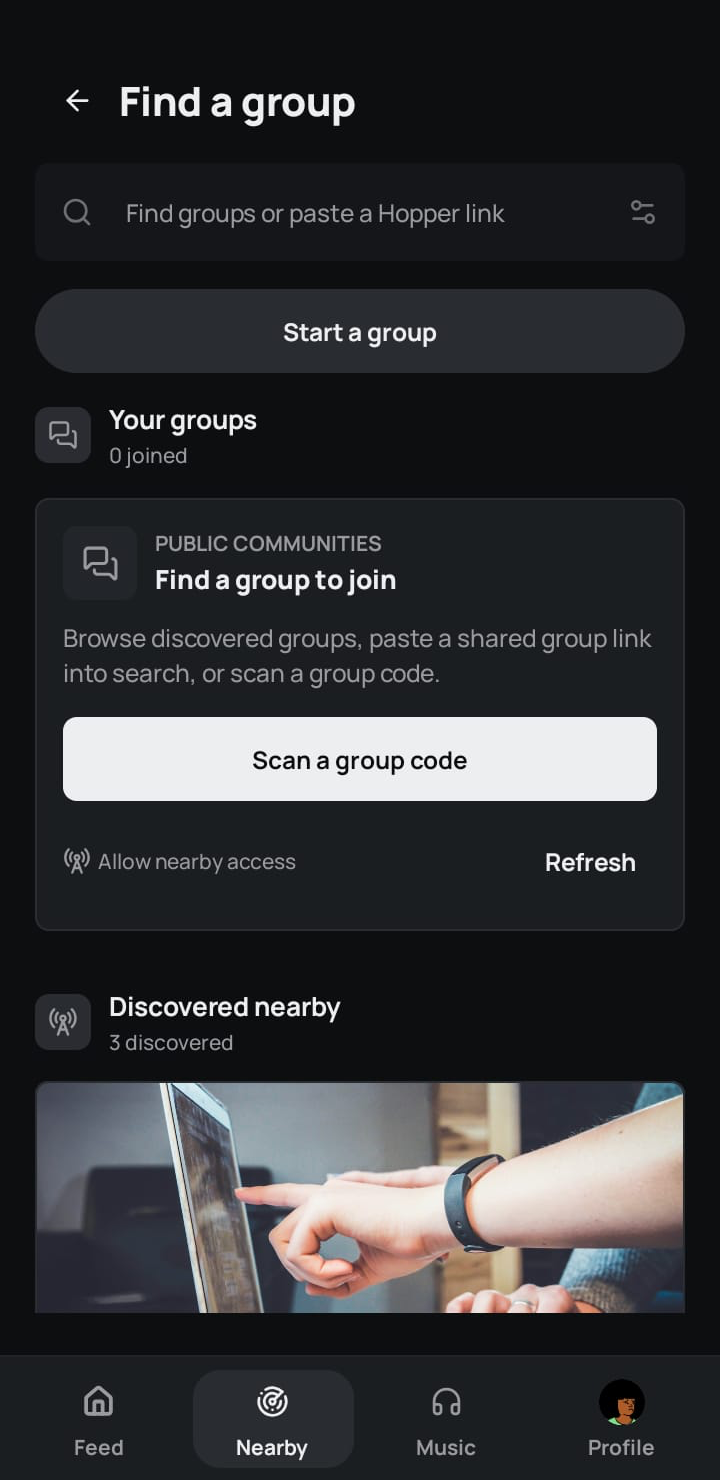
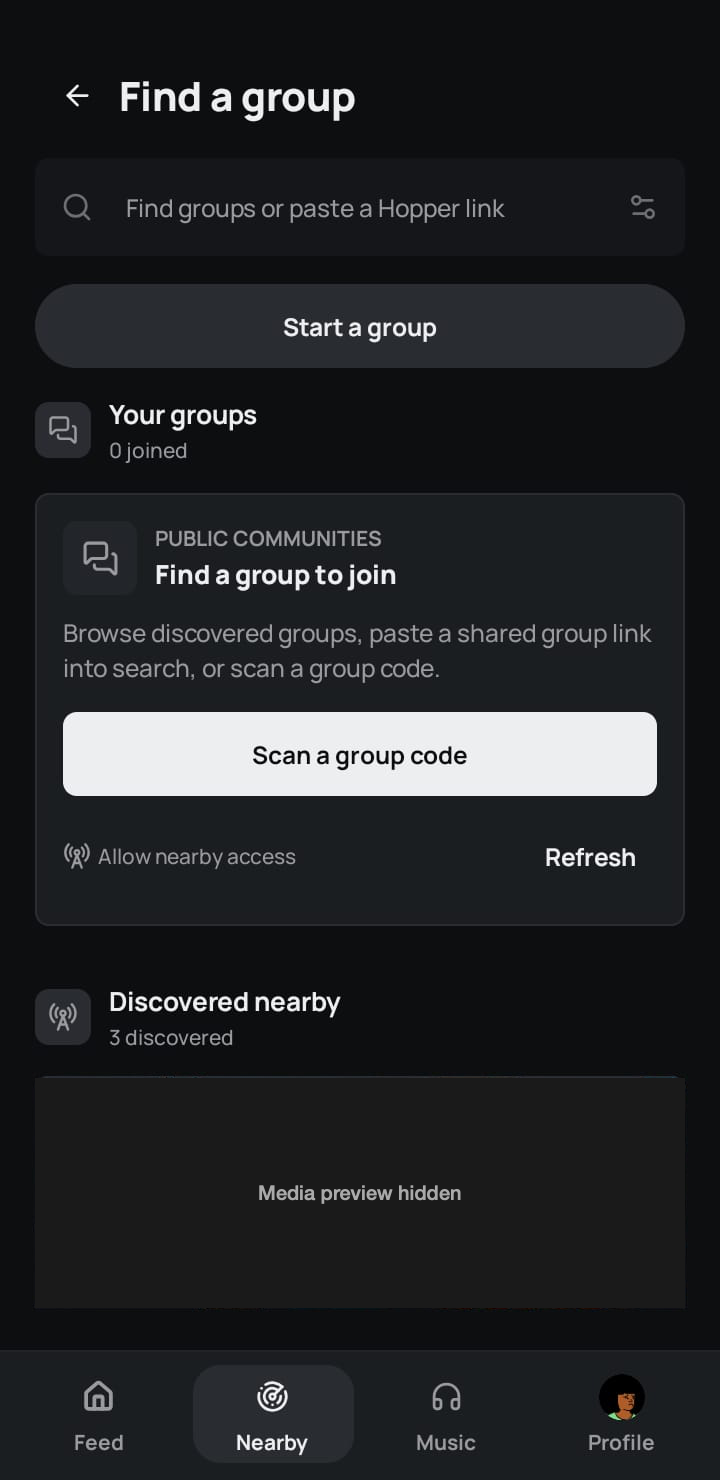
Show all 14 sanitized Hopper screenshots in download README

diff --git a/README.md b/README.md
@@ -2,48 +2,71 @@
 
 # Hopper for Android
 
-**Talk nearby. Explore further.** Hopper brings Bluetooth mesh conversations together with place-based discovery, groups, and an online social feed. Nearby messages can work without internet when another compatible Hopper phone is reachable; places and live social content need a connection.
+**Nearby conversations. Places beyond them.** Find people around you and exchange supported messages over Bluetooth when compatible phones are reachable, even without internet. Go online to explore area conversations, a social feed, profiles, and media.
 
-> **Release status: no public APK yet.** This is Hopper's official download repository, not the Android source repository. The [Releases page](https://github.com/hopper-social/hopper/releases) will list signed, approved builds when available. Until then, the screenshots below show an alpha development build, not a public release. Do not install APKs offered by other accounts or links.
+> **October 12 alpha prerelease available.** Download the signed universal APK and its checksum from the [official v0.3.5-alpha.1 release](https://github.com/hopper-social/hopper/releases/tag/v0.3.5-alpha.1-20261012). This is Hopper's download repository, not the Android source repository. The screens below are development captures and are not proof that they came from the signed public APK. Do not install APKs offered elsewhere.
 
-## How Hopper connects
+## One app, more ways to connect
 
-| Nearby, without internet | Places and social, with internet |
-| --- | --- |
-| Discover compatible Hopper phones, start or find groups, and exchange supported messages over Bluetooth mesh when peers are reachable. Range, permissions, and available relay peers affect delivery. | Explore area conversations and use the feed, profiles, and media features through internet-backed services and Nostr relays. Picking an area and sharing public content can reveal information beyond nearby peers. |
+- **Around you:** Discover compatible phones and explore available groups. Supported Bluetooth mesh conversations can work without mobile data or Wi-Fi when peers are reachable; group discovery and delivery depend on the connection.
+- **In a place:** Spin the globe to choose an area, then explore its conversations and notes through internet-backed relays. You can choose where to look without claiming to be there.
+- **Beyond chat:** Browse the online feed, profiles, photos, Reels, and music. The people and places you find nearby sit alongside a wider social experience.
 
-Wi-Fi Direct can carry nearby reel transfers on supported Android devices; it is not the Bluetooth mesh messaging transport. Hopper is an **alpha**, not an emergency communication service.
+## A look inside
 
-## See Hopper
+All 14 supplied phone captures are shown below. These are **edited v0.3.5-alpha.1 development captures**, not verified screenshots of the signed public APK or proof of message delivery. System bars were cropped; private conversations, posts, build details, and third-party media previews were covered before publication. Blank labeled regions are redactions, not empty app states. Places and discovery counts reflect one session, not current network availability.
 
-These captures show the installed **v0.3.5-alpha.1 development build**. They document visible screens, not an approved APK or verified message delivery. Area names and discovery counts are examples from one session; results vary with device, location, permissions, and available peers.
-
-| Nearby | Find a group |
+| Nearby home | Find a group |
 | :---: | :---: |
-| <img src="assets/screens/nearby-home.png" width="280" alt="Nearby home with Start a group, Find a group, Notes near you, Explore area, and a recent region chat" /> | <img src="assets/screens/find-a-group.png" width="280" alt="Find a group with search or Hopper link, create group, QR scan, nearby access, refresh, and discovered nearby section" /> |
-| Start a group, find one nearby, read or leave notes, or explore an area. | Search by name or Hopper link, scan a group code, or refresh discovery. This capture shows three groups discovered, not joined. |
+| <img src="assets/screens/nearby-home.png" width="280" alt="Nearby home with group, notes, and area actions plus a recent region card; its photo and post preview are hidden" /> | <img src="assets/screens/find-a-group.png" width="280" alt="Find a group with search, create group, scan code, and discovery controls" /> |
+| Groups, notes, and area conversations. | Search, scan a code, or refresh discovery. |
 
-| Choose an area | Make it yours |
+| Nearby communities | Choose an area |
 | :---: | :---: |
-| <img src="assets/screens/choose-an-area.png" width="280" alt="Globe area picker with spin, zoom, focus, detail settings, and Select button" /> | <img src="assets/screens/appearance-and-safety.png" width="280" alt="Settings showing system light and dark appearance, color swatches, language, haptics, SOS off, background operation off, and real location source" /> |
-| Spin and zoom the globe to choose an area for place conversations. This example selects a broad region, not a precise position. | Set appearance, accent color, language, and haptics. Safety and connectivity options are also visible; the SOS gesture is switched off in this capture. |
+| <img src="assets/screens/nearby-communities.png" width="280" alt="Nearby community cards showing Chat, Call, and Photo actions with media previews hidden" /> | <img src="assets/screens/choose-an-area.png" width="280" alt="Globe area picker with spin, zoom, focus, detail settings, and Select button" /> |
+| Community cards and available actions. | Spin and zoom to choose a broad area. |
 
-The alpha also shows a **For you / Global** feed, profiles, Reels, photos, music, and a place-chat composer. Visible controls do not guarantee that content or sharing is available on every device or connection.
+| Place conversation | Place notes |
+| :---: | :---: |
+| <img src="assets/screens/place-conversation.png" width="280" alt="Region conversation header and message composer with message contents hidden" /> | <img src="assets/screens/place-notes.png" width="280" alt="Society, Block, Area, and City notes tabs and Add a note action; the pinned post is hidden" /> |
+| Conversation view; participants and messages hidden. | Browse or add notes for a place. |
+
+| For you, dark | For you, another moment |
+| :---: | :---: |
+| <img src="assets/screens/for-you-feed-dark.png" width="280" alt="Dark feed with For you selected and media post hidden" /> | <img src="assets/screens/for-you-feed-dark-alt.png" width="280" alt="Second dark For you feed capture with a different post frame hidden" /> |
+| The feed in dark appearance. | A second frame of the same feed view. |
+
+| For you, light | Global feed |
+| :---: | :---: |
+| <img src="assets/screens/for-you-feed-light.png" width="280" alt="Light feed with For you selected and media post hidden" /> | <img src="assets/screens/global-feed.png" width="280" alt="Dark feed with Global selected and third-party post hidden" /> |
+| The same tab in light appearance. | Switch to the wider Global feed. |
+
+| Profile and Reels | Music library |
+| :---: | :---: |
+| <img src="assets/screens/profile-and-reels.png" width="280" alt="Anonymous profile with post counts, Reels, Uploads, People, Music, and Saved tabs; reel thumbnail hidden" /> | <img src="assets/screens/music-library.png" width="280" alt="Music library with Play now and New playlist actions; third-party media preview and title hidden" /> |
+| Your profile and media tabs. | Library and playlist controls. |
+
+| Appearance and safety | Reels and storage settings |
+| :---: | :---: |
+| <img src="assets/screens/appearance-and-safety.png" width="280" alt="Settings with appearance swatches, language, haptics, SOS off, and location source" /> | <img src="assets/screens/reels-and-storage-settings.png" width="280" alt="Settings with nearby Reel and publishing toggles, backup, and data management; device build details hidden" /> |
+| Choose appearance and safety options. | Control media, storage, and sharing options. |
 
 ## About Hopper and Bitchat
 
-Hopper extends the nearby-first approach of [Bitchat](https://github.com/permissionlesstech/bitchat) with an Android social experience built around places, a feed, media, and profiles. Private mesh sessions use the [Noise Protocol](https://noiseprotocol.org). The upstream [Bitchat Android app](https://github.com/permissionlesstech/bitchat-android) is a separate project: Hopper is **not** its official app, and its releases are not Hopper downloads.
+Hopper extends the nearby-first approach of [Bitchat](https://github.com/permissionlesstech/bitchat) with an Android social experience built around places, a feed, media, and profiles. Private mesh sessions use the [Noise Protocol](https://noiseprotocol.org). Hopper is a separate project, **not** the official Bitchat app; Bitchat releases are not Hopper downloads.
 
-## Know before using
+## Where it works
 
-- **Offline means nearby, not guaranteed.** Bluetooth must be available on compatible phones with the needed permissions and reachable peers. Obstacles and device support affect range; a "Sent" label alone does not confirm delivery.
-- **Online activity has a wider audience.** New nearby notes, place conversations, profiles, and the feed depend on internet connectivity and external relays. Area selection may reveal location interests; public posts and media can be copied or retained elsewhere.
-- **Start without a phone number.** Nearby access does not require one. Read the [privacy information](https://hopper-social.github.io/hopper-legal-pages/privacy.html) and [account-data deletion limits](https://hopper-social.github.io/hopper-legal-pages/deletion.html) before sharing sensitive content.
+- **Nearby messaging** needs compatible phones in range, Bluetooth, and the required permissions. Obstacles and available peers affect delivery; a "Sent" label does not confirm receipt. Hopper is an **alpha**, not an emergency service.
+- **Places, notes, and the feed** need internet access and external relays. Choosing an area can reveal what places interest you, and optional location lookups may disclose more precise location data to external services. Public posts and media can be copied or retained elsewhere.
+- **Nearby reels** may use Wi-Fi Direct on supported devices. That is a separate transfer path from Bluetooth mesh messages; it is not a promise of offline media delivery.
 
-## Get Hopper when a release is available
+Nearby access does not require a phone number. Read the [privacy information](https://hopper-social.github.io/hopper-legal-pages/privacy.html) and [account-data deletion limits](https://hopper-social.github.io/hopper-legal-pages/deletion.html) before sharing sensitive content.
 
-1. Open the [official Releases page](https://github.com/hopper-social/hopper/releases). Under **Assets**, download the universal `.apk` and its matching `.sha256` file from the same release. GitHub's automatic "Source code" archives here are neither the Android app source nor an installable APK.
+## Get Hopper
+
+1. Open the [October 12 alpha prerelease](https://github.com/hopper-social/hopper/releases/tag/v0.3.5-alpha.1-20261012). Under **Assets**, download the universal `.apk` and its matching `.sha256` file from that release. GitHub's automatic "Source code" archives here are neither the Android app source nor an installable APK.
 2. Compare the APK's SHA-256 with the checksum file (`shasum -a 256 <file.apk>` on macOS or `sha256sum <file.apk>` on Linux). A match detects changed or incomplete downloads; it does **not** prove publisher identity. Check the repository address and release.
 3. Open the APK on a compatible Android phone. Allow "Install unknown apps" for the browser or file manager only when prompted. To update later, install the new APK **over** the existing one. Android requires the same package and signing certificate to preserve app data; do not uninstall to bypass a mismatch. Back up anything important first.
 
-Hopper is not currently on Google Play. After a release, report problems through [Issues](https://github.com/hopper-social/hopper/issues) without posting private chats, device identifiers, or exact location history.
+Hopper is not currently on Google Play. Report problems through [Issues](https://github.com/hopper-social/hopper/issues) without posting private chats, device identifiers, or exact location history.
